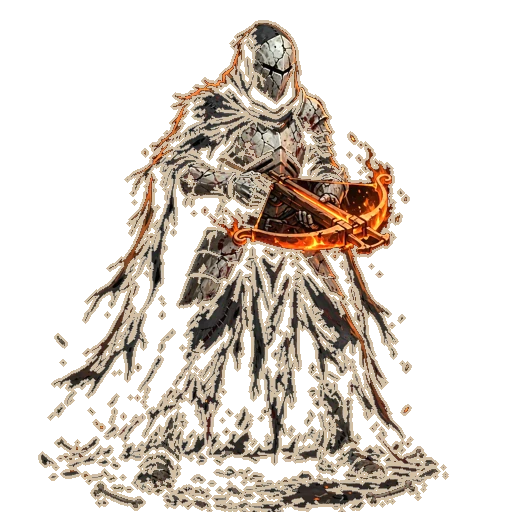
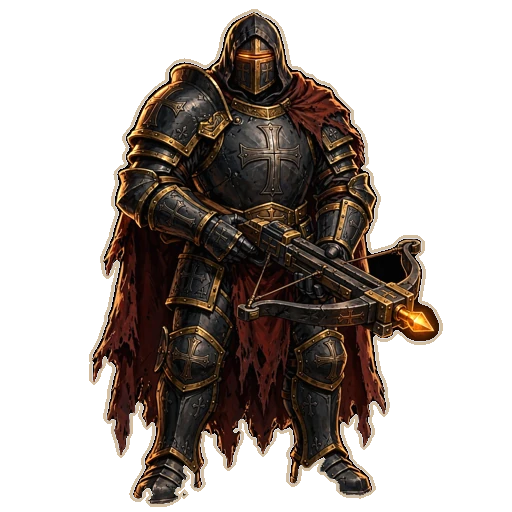
GRIMPACK v4: rooted removed (ring spawns police stillness), solid new hero, arrow/space scroll fix, early-game teeth, braziers + circle matter

diff --git a/game.js b/game.js
@@ -85,7 +85,7 @@
     player = { x: W / 2, y: H / 2 + 60, hp: B.hp, maxHp: B.hp, dmg: B.dmg, rate: B.rate, proj: B.proj,
       pierce: B.pierce, critC: B.critC, critM: B.critM, speed: B.speed, collectR: B.collectR,
       regen: 0, shieldCd: 0, shieldMax: 0, shieldReady: false, revives: 0, wrathNext: false, wrathWave: false,
-      fireCd: 0, invuln: 0, r: B.radius, chillSlow: 0, chillSecs: 0, stormEvery: 0, hitCount: 0, vx: 0, vy: 0, stillT: 0, rooted: false, rootMove: 0, walkPh: 0,
+      fireCd: 0, invuln: 0, r: B.radius, chillSlow: 0, chillSecs: 0, stormEvery: 0, hitCount: 0, vx: 0, vy: 0, walkPh: 0,
       thorns: 0, brandPct: 0, dashCd: 0, dashT: 0, dashDx: 0, dashDy: 0, lastDx: 1, lastDy: 0 };
     enemies = []; bolts = []; ebolts = []; towers = []; shards = []; zones = []; parts = []; texts = []; decals = []; zaps = []; corpses = []; embers = [];
     for (let i = 0; i < 26; i++) embers.push({ x: Math.random() * W, y: Math.random() * H, vx: (Math.random() - 0.5) * 9, vy: -6 - Math.random() * 12, ph: Math.random() * 6.28 });
@@ -513,6 +513,7 @@
 
   const keys = {};
   addEventListener("keydown", e => {
+    if (["arrowup", "arrowdown", "arrowleft", "arrowright", " "].includes(e.key.toLowerCase())) e.preventDefault();
     keys[e.key.toLowerCase()] = true;
     if (e.key === " " && state === "build") { e.preventDefault(); beginWave(); }
     if (e.key === " " && state === "wave") { e.preventDefault(); tryDash(); }
@@ -599,16 +600,6 @@
     player.x = Math.max(18, Math.min(W - 18, player.x)); player.y = Math.max(18, Math.min(H - 18, player.y));
     if (dt > 0) { player.vx = (player.x - px0) / dt; player.vy = (player.y - py0) / dt; }
     const spd = Math.hypot(player.vx, player.vy);
-    if (waveActive && state === "wave") {
-      if (player.rooted) {
-        player.rootMove += spd * dt;
-        if (player.rootMove > 130) { player.rooted = false; player.stillT = 0; floatText(player.x, player.y - 44, "YOU TEAR FREE", "#7dff9a"); }
-      } else if (spd < 14 && player.dashT <= 0) {
-        player.stillT += dt;
-        if (player.stillT > 2.2 && player.stillT < 2.3) floatText(player.x, player.y - 44, "the grief gathers… MOVE", "#c9b8a3");
-        if (player.stillT >= 3.0) { player.rooted = true; player.rootMove = 0; SFX.hurt(); floatText(player.x, player.y - 52, "ROOTED IN GRIEF — MOVE!", "#ff5d2e"); log("You stood still too long. The grief takes root: slowed fire, softer flesh, until you tear free."); }
-      } else player.stillT = Math.max(0, player.stillT - dt * 2.5);
-    } else { player.stillT = 0; player.rooted = false; }
     player.walkPh += dt * (2 + spd / 22);
     // --- spawns ---
     if (waveActive && spawnQueue.length) {
@@ -617,7 +608,7 @@
       if (spawnTimer <= 0) {
         spawnTimer = (spec.duration / spec.count) * (2 + Math.floor(Math.random() * 4)) * (0.75 + Math.random() * 0.5);
         const knot = 2 + Math.floor(Math.random() * 4);
-        const ring = wave >= 4 && Math.random() < 0.25; // THE DEAD RISE AROUND YOU
+        const ring = wave >= 2 && Math.random() < 0.30; // THE DEAD RISE AROUND YOU — from Night 2, wherever you stand
         const baseA = Math.random() * 6.283;
         if (ring) floatText(player.x, player.y - 52, "THE DEAD RISE AROUND YOU", "#ff5d2e");
         for (let i = 0; i < knot && spawnQueue.length; i++) spawnEnemy(spawnQueue.pop(), ring ? baseA + (i / Math.max(1, knot)) * 6.283 : null);
@@ -643,10 +634,10 @@
     }
     // --- towers ---
     for (const tw of towers) {
-      const def = G.TOWERS[tw.type], lvM = Math.pow(G.PACK.towerLevelMult, tw.level - 1) * (tonightTithe === "blood" ? 1.15 : 1), cons = inCircle(tw.x, tw.y) ? (tonightTithe === "blood" ? 1.6 : 1.3) : 1;
+      const def = G.TOWERS[tw.type], lvM = Math.pow(G.PACK.towerLevelMult, tw.level - 1) * (tonightTithe === "blood" ? 1.15 : 1), cons = inCircle(tw.x, tw.y) ? (tonightTithe === "blood" ? 1.9 : WORLD.consecration) : 1;
       tw.cd -= dt;
       if (tw.type === "font") {
-        if (tonightTithe !== "pray" && Math.hypot(player.x - tw.x, player.y - tw.y) < def.auraRange + player.r) heal(def.healPerSec * tw.mult * lvM * dt * (inCircle(tw.x, tw.y) ? 1.3 : 1));
+        if (tonightTithe !== "pray" && Math.hypot(player.x - tw.x, player.y - tw.y) < def.auraRange + player.r) heal(def.healPerSec * tw.mult * lvM * dt * (inCircle(tw.x, tw.y) ? WORLD.consecration : 1));
         continue;
       }
       if (tw.type === "bell") {
@@ -688,10 +679,10 @@
       let tgt = null, bd = 1e9;
       for (const e of enemies) { if (e.dead || (e.type === "wraith" && e.flickerT % 2.6 > 1.9)) continue; const d = Math.hypot(e.x - player.x, e.y - player.y); if (d < bd) { bd = d; tgt = e; } }
       if (tgt) {
-        const rateMult = (inCircle(player.x, player.y) ? 1.15 : 1) * (player.rooted ? 0.55 : 1);
+        const rateMult = (inCircle(player.x, player.y) ? 1.15 : 1);
         player.fireCd = 1 / (player.rate * rateMult);
         const missing = 1 - player.hp / player.maxHp;
-        const dmgBase = player.dmg * (player.wrathWave ? 1.25 : 1) * (1 + player.brandPct * missing * 100);
+        const dmgBase = player.dmg * (player.wrathWave ? 1.25 : 1) * (1 + player.brandPct * missing * 100) * (inCircle(player.x, player.y) ? 1.2 : 1); // the circle feeds the knight too
         for (let i = 0; i < player.proj; i++) {
           const crit = Math.random() < player.critC;
           const dmg = dmgBase * (crit ? player.critM : 1) * (player.proj > 1 ? 1 : 1);
@@ -758,7 +749,7 @@
       e.flickerT += dt;
       if (e.type === "brute" && !e.enraged && e.hp < e.maxHp * 0.3) { e.enraged = true; floatText(e.x, e.y - e.r - 10, "ENRAGED", "#ff5d2e"); }
       if (e.burnT > 0) { e.burnT -= dt; e.burnAcc = (e.burnAcc || 0) + e.burnDps * dt; if (e.burnAcc >= 1) { const d = Math.floor(e.burnAcc); e.burnAcc -= d; damageEnemySilent(e, d); } if (e.dead) continue; }
-      let sp = e.speed * (e.enraged ? 1.45 : 1) * (1 + 0.04 * deepenStacks) * (player.rooted ? 1.25 : 1); // they smell stillness
+      let sp = e.speed * (e.enraged ? 1.45 : 1) * (1 + 0.04 * deepenStacks);
       if (e.type === "wraith") {
         e.lungeCd -= dt;
         if (e.lungeT > 0) { e.lungeT -= dt; sp *= 1.9; }
@@ -783,7 +774,7 @@
       e.animT += dt * (2.2 + Math.hypot(mx, my) / 26);
       if (e.atkPop > 0) e.atkPop -= dt;
       e.hitCd -= dt;
-      if (Math.hypot(player.x - e.x, player.y - e.y) < e.r + player.r && e.hitCd <= 0) { e.hitCd = 0.85; e.atkPop = 0.22; hurtPlayer(e.dmg * (1 + 0.03 * deepenStacks) * (player.rooted ? 1.25 : 1), e); }
+      if (Math.hypot(player.x - e.x, player.y - e.y) < e.r + player.r && e.hitCd <= 0) { e.hitCd = 0.85; e.atkPop = 0.22; hurtPlayer(e.dmg * (1 + 0.03 * deepenStacks), e); }
     }
     enemies = enemies.filter(e => !e.dead);
     // --- shards (Sanguine Font drinks them) ---
@@ -836,6 +827,14 @@
     if (shake > 0) { ctx.translate((Math.random() * 2 - 1) * shake, (Math.random() * 2 - 1) * shake); shake *= 0.88; if (shake < 0.4) shake = 0; }
     ctx.drawImage(IMG.arena, 0, 0, W, H);
     for (const em of embers) { const tw2 = 0.35 + Math.sin(performance.now() / 300 + em.ph) * 0.2; ctx.fillStyle = `rgba(255,150,60,${tw2})`; ctx.fillRect(em.x - 1.2, em.y - 1.2, 2.4, 2.4); }
+    if (state === "wave") for (const bz of WORLD.braziers) {
+      const hot = enemies.some(e => Math.hypot(e.x - bz.x, e.y - bz.y) < WORLD.brazierR + 6);
+      const gr = ctx.createRadialGradient(bz.x, bz.y, 4, bz.x, bz.y, WORLD.brazierR);
+      gr.addColorStop(0, hot ? "rgba(255,120,30,0.34)" : "rgba(255,120,30,0.10)");
+      gr.addColorStop(1, "rgba(255,120,30,0)");
+      ctx.fillStyle = gr; ctx.beginPath(); ctx.arc(bz.x, bz.y, WORLD.brazierR, 0, 6.283); ctx.fill();
+      if (hot) { ctx.strokeStyle = `rgba(255,150,60,${0.35 + Math.sin(performance.now() / 130) * 0.15})`; ctx.lineWidth = 2; ctx.beginPath(); ctx.arc(bz.x, bz.y, WORLD.brazierR - 3, 0, 6.283); ctx.stroke(); }
+    }
     // blood remembers
     for (const d of decals) { ctx.fillStyle = `rgba(120,10,16,${d.a})`; ctx.beginPath(); ctx.ellipse(d.x, d.y, d.r, d.r * 0.62, 0, 0, 6.283); ctx.fill(); }
     // ritual circle glow (stronger when the knight stands in it)
@@ -938,12 +937,6 @@
       if (player.dashT > 0) { const along = Math.abs(player.dashDx) >= Math.abs(player.dashDy); psx = along ? 1.22 : 0.86; psy = along ? 0.86 : 1.22; }
       shadow(player.x, player.y + 19, 22);
       drawSpr(IMG.hero, player.x, player.y + bobY, 62, { rot: lean, sx: psx, sy: psy, alpha: player.invuln > 0 && state === "wave" ? 0.65 : 1 });
-      if (player.rooted) {
-        ctx.strokeStyle = "rgba(205,196,182,0.95)"; ctx.lineWidth = 4.5;
-        for (let k = 0; k < 6; k++) { const a = k / 6 * 6.283 + 0.4 + Math.sin(performance.now() / 500) * 0.05; ctx.beginPath(); ctx.moveTo(player.x + Math.cos(a) * 40, player.y + 20 + Math.sin(a) * 8); ctx.quadraticCurveTo(player.x + Math.cos(a) * 20, player.y + 8, player.x + Math.cos(a) * 8, player.y - 8); ctx.stroke(); }
-        ctx.fillStyle = `rgba(255,93,46,${0.75 + Math.sin(performance.now() / 200) * 0.25})`; ctx.font = "bold 13px system-ui"; ctx.textAlign = "center";
-        ctx.fillText("☠ ROOTED — MOVE! ☠", player.x, player.y - 46);
-      }
       ctx.fillStyle = "rgba(6,5,8,0.7)"; ctx.fillRect(player.x - 20, player.y + 30, 40, 5);
       ctx.fillStyle = "#7dff9a"; ctx.fillRect(player.x - 20, player.y + 30, 40 * Math.max(0, player.hp / player.maxHp), 5);
     }
@@ -975,7 +968,6 @@
     ctx.fillStyle = vg; ctx.fillRect(0, 0, W, H);
     if (hitFlash > 0) { ctx.fillStyle = `rgba(215,38,61,${hitFlash * 0.30})`; ctx.fillRect(0, 0, W, H); }
     if (player.hp < player.maxHp * 0.30 && state === "wave") { const pulse = 0.10 + Math.sin(performance.now() / 240) * 0.05; ctx.fillStyle = `rgba(215,38,61,${pulse})`; ctx.fillRect(0, 0, W, H); }
-    if (player.rooted && state === "wave") { const gv = ctx.createRadialGradient(W / 2, H / 2, H * 0.30, W / 2, H / 2, H * 0.78); gv.addColorStop(0, "rgba(90,84,76,0)"); gv.addColorStop(1, "rgba(90,84,76,0.42)"); ctx.fillStyle = gv; ctx.fillRect(0, 0, W, H); }
   }
   // ---------- input ----------
   function canvasPos(ev) { const r = cv.getBoundingClientRect(); return { x: (ev.clientX - r.left) * W / r.width, y: (ev.clientY - r.top) * H / r.height, inside: true }; }

diff --git a/balance.js b/balance.js
@@ -56,8 +56,8 @@
   const PLAYER_BASE = { hp: 100, speed: 218, dmg: 13, rate: 2.0, proj: 1, pierce: 0, critC: 0.05, critM: 2.0, radius: 20, collectR: 52 };
 
   const ENEMIES = {
-    husk:    { hp: 22,  speed: 54,  dmg: 8,  r: 16, ash: 1 },
-    cultist: { hp: 16,  speed: 80,  dmg: 7,  r: 15, ash: 1 },
+    husk:    { hp: 22,  speed: 64,  dmg: 8,  r: 16, ash: 1 },
+    cultist: { hp: 16,  speed: 90,  dmg: 7,  r: 15, ash: 1 },
     wraith:  { hp: 12,  speed: 140, dmg: 6,  r: 14, ash: 1 },
     brute:   { hp: 100, speed: 35,  dmg: 16, r: 24, ash: 3 },
     plague:  { hp: 30,  speed: 47,  dmg: 10, r: 18, ash: 2, explodeDmg: 26, explodeR: 66 },
@@ -66,13 +66,13 @@
   };
 
   function waveSpec(w) {
-    const count = Math.round(22 * Math.pow(1.27, w - 1));
-    const hpScale = Math.pow(1.24, w - 1);
+    const count = Math.round(30 * Math.pow(1.27, w - 1));
+    const hpScale = Math.pow(1.24, w - 1) * (w <= 2 ? 1.08 : 1);
     const bossScale = 1 + 0.10 * (w - 1); // bosses scale gently; they are a DPS check, not a sponge wall
     const dmgScale = 1 + 0.045 * (w - 1);
-    const duration = Math.round((34 + 4 * w) * (w >= 7 ? 0.45 : 0.55)); // seconds over which the wave spawns — compressed: the horde arrives like weather, not a queue
+    const duration = Math.round((34 + 4 * w) * (w >= 7 ? 0.45 : w <= 3 ? 0.36 : 0.55)); // seconds over which the wave spawns — compressed: the horde arrives like weather, not a queue
     let mix;
-    if (w === 1) mix = { husk: 1 };
+    if (w === 1) mix = { husk: 0.8, cultist: 0.2 };
     else if (w === 2) mix = { husk: 0.75, cultist: 0.25 };
     else if (w === 3) mix = { husk: 0.55, cultist: 0.23, wraith: 0.14, plague: 0.08 };
     else if (w < 7)  mix = { husk: 0.44, cultist: 0.20, wraith: 0.15, brute: 0.12, plague: 0.09 };
@@ -95,7 +95,7 @@
     braziers: [
       { x: 140, y: 92 }, { x: 828, y: 86 }, { x: 136, y: 552 }, { x: 830, y: 556 },
     ],
-    brazierR: 74, brazierDps: 11,
+    brazierR: 84, brazierDps: 16, consecration: 1.45,
   };
 
   const OMENS = [
@@ -126,7 +126,7 @@
   const TITHES = [
     { id: "braziers", name: "Burn the Tithe",   text: "Pay 30 ash. The braziers burn double tonight — but their light draws +15% more dead.", cost: "ash", amt: 30 },
     { id: "doors",    name: "Bar the Doors",    text: "The dead come 10% slower tonight — but the timber costs you tomorrow's free pack.", cost: "none", amt: 0 },
-    { id: "blood",    name: "Blood the Circle", text: "Pay 15 HP, for good. Towers deal +15% tonight; consecration doubles to +60%.", cost: "hp", amt: 15 },
+    { id: "blood",    name: "Blood the Circle", text: "Pay 15 HP, for good. Towers deal +15% tonight; consecration rises to +90%.", cost: "hp", amt: 15 },
     { id: "crypts",   name: "Open the Crypts",  text: "A free pack, right now. But something old wakes — Anointed elites triple tonight.", cost: "none", amt: 0 },
     { id: "hoard",    name: "Hoard the Ash",    text: "Gain 25 ash now. The dead provide 30% less ash tonight. Misers are remembered.", cost: "none", amt: 0 },
     { id: "silence",  name: "Refuse the Omen",  text: "Cast tonight's omen out — boon and curse alike. A plain night, chosen by you.", cost: "none", amt: 0 },

diff --git a/tools/playsim.js b/tools/playsim.js
@@ -160,7 +160,7 @@ function playRun(diff) {
       P.shieldCd -= dt; if (P.shieldMax && !P.shieldReady && P.shieldCd <= 0) P.shieldReady = true;
       // --- towers (instant-hit approximation with travel factor 0.92) ---
       for (const tw of towers) {
-        const def = G.TOWERS[tw.type], lvM = Math.pow(G.PACK.towerLevelMult, tw.level - 1), cons = inCircle(tw.x, tw.y) ? 1.3 : 1;
+        const def = G.TOWERS[tw.type], lvM = Math.pow(G.PACK.towerLevelMult, tw.level - 1), cons = inCircle(tw.x, tw.y) ? WORLD.consecration : 1;
         tw.cd -= dt;
         if (tw.type === "font") { if (dist(P, tw) < def.auraRange + P.r) P.hp = Math.min(P.maxHp, P.hp + def.healPerSec * tw.mult * lvM * dt); continue; }
         if (tw.type === "bell") {

diff --git a/index.html b/index.html
@@ -4,7 +4,7 @@
 <meta charset="utf-8">
 <meta name="viewport" content="width=device-width, initial-scale=1">
 <title>GRIMPACK — Crack the seal. Survive the night.</title>
-<link rel="stylesheet" href="style.css?v=34">
+<link rel="stylesheet" href="style.css?v=35">
 <link rel="icon" href="assets/pack.jpg">
 </head>
 <body>
@@ -114,7 +114,7 @@
 </div>
 
 <audio id="dirge" src="assets/dirge.mp3" loop preload="auto"></audio>
-<script src="balance.js?v=34"></script>
-<script src="game.js?v=34"></script>
+<script src="balance.js?v=35"></script>
+<script src="game.js?v=35"></script>
 </body>
 </html>

diff --git a/DEVLOG.md b/DEVLOG.md
@@ -152,3 +152,23 @@ consequences; sit-in-center-and-win. Answers:
 - Lesson: screenshot agents have limited acuity for small dark motion;
   verify mechanics with counters, verify look with scale, let the human
   judge motion in motion.
+
+## v4 — Mikkel's second playtest (2026-11-10 late)
+Five more notes, five answers:
+- "Rooted is weird" — REMOVED entirely. Anti-camping is now diegetic: ring
+  spawns rise around the player from Night 2 (was Night 4), and the deepening
+  clock never stops. The map and the dead punish stillness, not a debuff.
+- "The main character is transparent" — the v1 hero art was literally a
+  watercolor ghost. New hero generated (+$0.011): a solid plate-armored
+  knight, crimson cloak, glowing crossbow. Keying lesson: luminance flood-
+  fill eats dark COLORED cloth (crimson shadow reads as black); the fix was
+  keying on max-channel (true background is neutral AND near-zero).
+- "Up/down scroll the page" — arrow keys + space now preventDefault.
+- "Enemies aren't hard at first" — Night 1: 30 enemies (was 22) arriving in
+  ~14s (was ~21s), cultists shooting from the first night, husks faster.
+  Playsim: Vigil bot 98% → 90%, median damage taken 54 → 91 HP.
+- "The map does nothing" — braziers: dps 11 → 16, radius 74 → 84, and they
+  now visibly flare when the dead enter their light. The circle feeds the
+  knight too (+20% damage inside it) and consecration rose 1.30 → 1.45 —
+  placement and positioning are real decisions with visible numbers.
+Total Nanoodle spend: $0.431 of $5.

diff --git a/assets/ASSETS.md b/assets/ASSETS.md
@@ -52,3 +52,6 @@ Batch D images: 10 × $0.011 = $0.110. Music: $0.024 (MiniMax Music 3 attempt
 failed free — it demands lyrics despite the instrumental flag; Stable Audio
 took the job). Running Nanoodle total for GRIMPACK: **$0.420** ($0.286 + $0.110
 + $0.024) of the $5 budget.
+
+## v4 hero replacement (batch hero2, $0.011)
+- spr/spr-hero.webp — solid plate-armored knight (the v1 hero was a wispy ink ghost; it read as transparent in-game). Keyed on max-channel flood fill.
